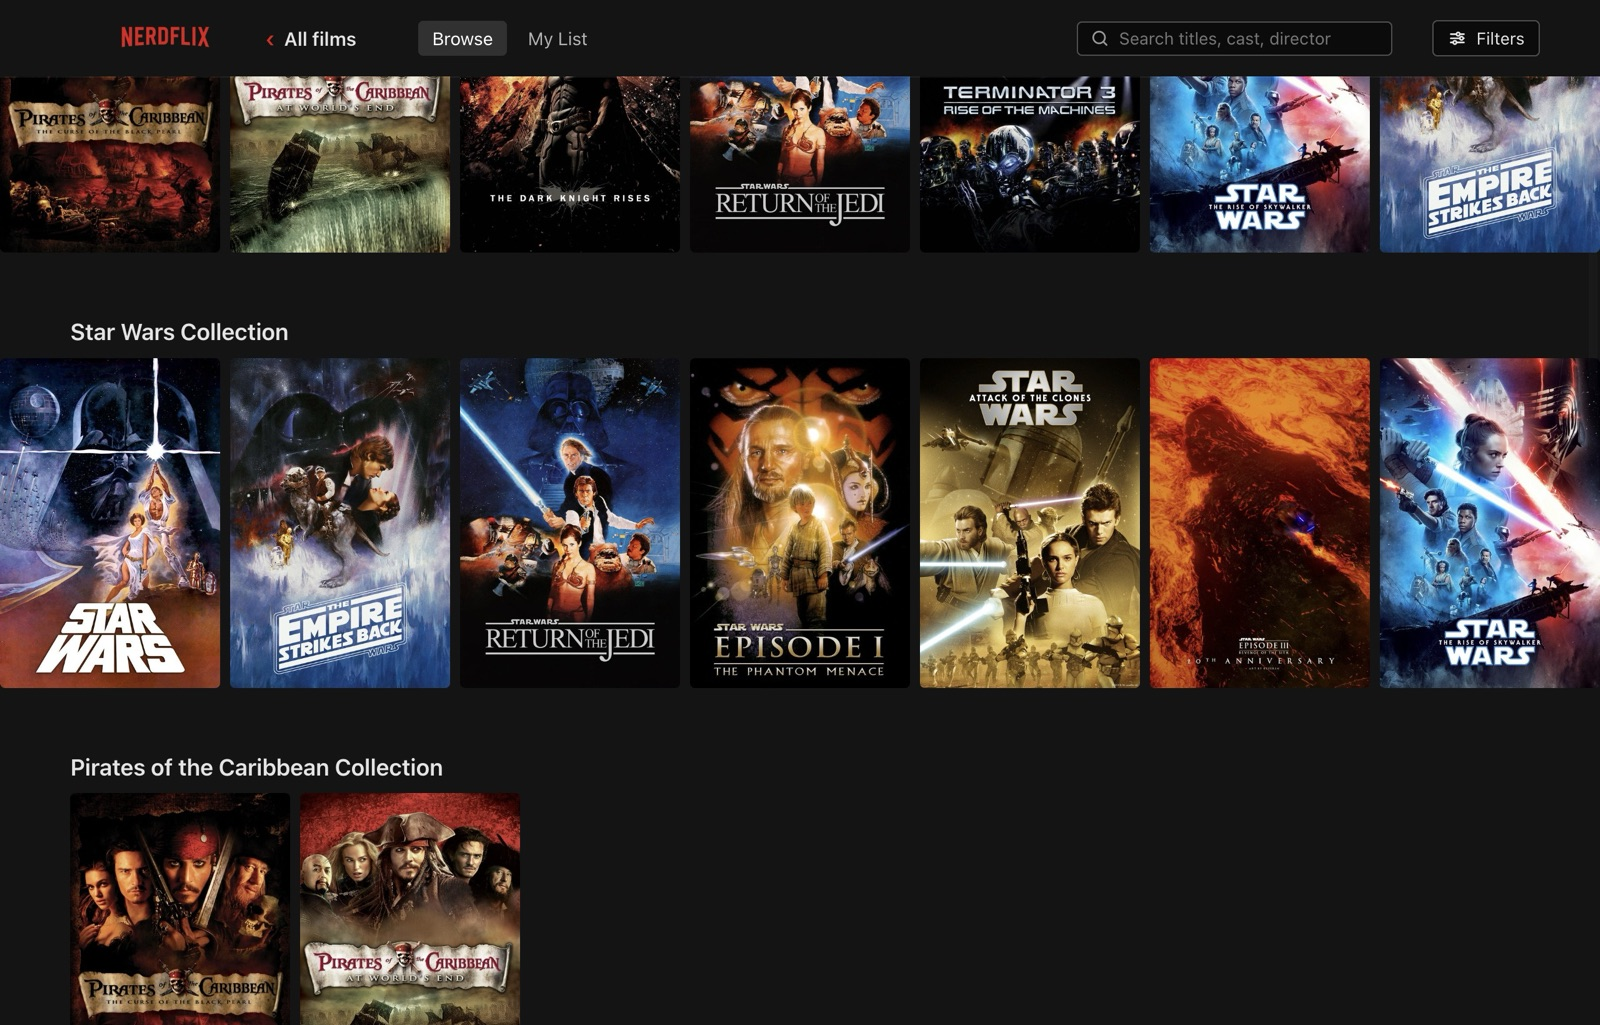
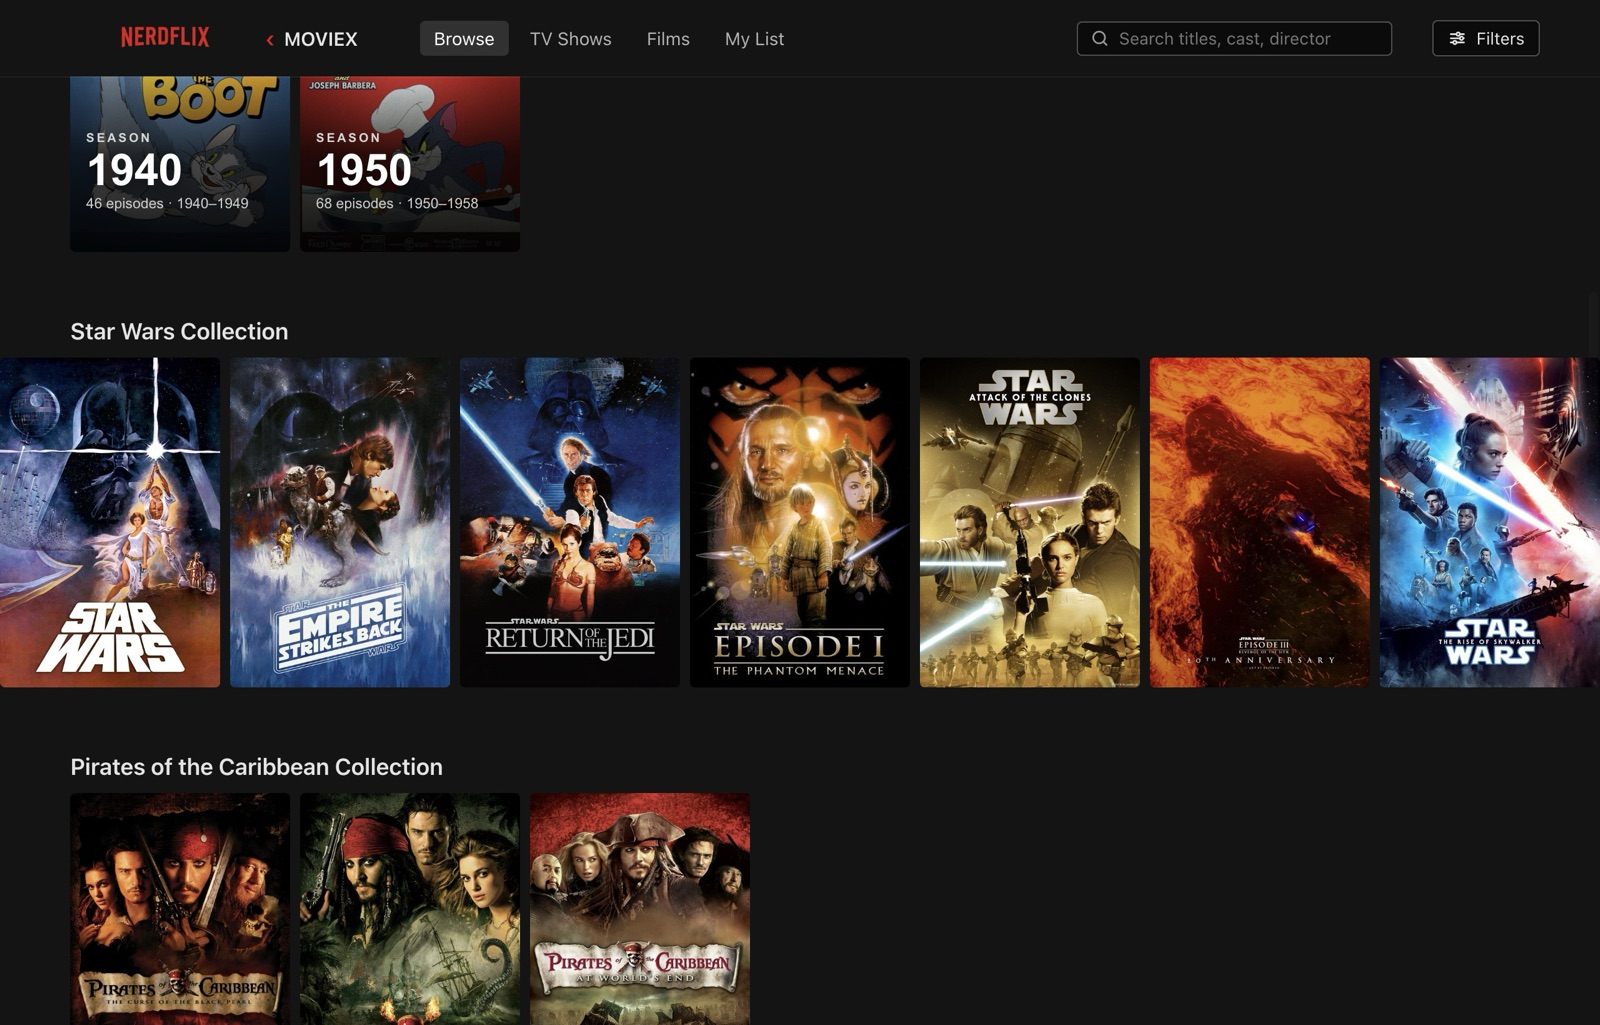
README: the gallery, recaptured from the real library, with TV
"What it looks like" was still the 1.0.0 gallery: nothing showed a season
shelf, the TV Shows tab or Recently Added in two. All thirteen screenshots are
recaptured in one run from the real library, and the gallery is a tour in five
parts — Browse, TV (new in 1.0.1), the detail view, finding things, your
drives — with image and text alternating sides.

New shots: Recently Added Movies and TV Shows (13), the Tom and Jerry season
shelf (11), a show's detail view (12); the episode list (10) now comes from the
real library rather than a test one.

The capture script learned the new rows: it found rows by the old titles
("Recently Added", "TV Shows") and would have failed on this build. It now
scrolls a tile into view before pointing at it — with Continue Watching first,
Recently Added sits below the fold — crops the season shelf to its cards, and
only ever shrinks a capture, never enlarges one.

diff --git a/README.md b/README.md
@@ -44,13 +44,13 @@ re-encoded, and nothing is ever written to your drives.**
   season's poster, episode count and how far through it you are. Click a season and
   the detail view opens on it.
 - **Keeps films and shows apart** where it matters: Recently Added Movies and Recently
-  Added TV Shows are separate rows, with TV Shows and Films tabs besides.
+  Added TV Shows are separate rows, with TV Shows and Films tabs alongside Browse.
 - **Sorts and filters** by title, year, runtime, file size, genre, resolution, HDR,
   unwatched and availability.
 - **Searches** across title, year, genre, director, creator and cast.
 - **Picks the audio and subtitle track before the film starts**, with commentaries
   labelled, so a disc with four audio mixes and forty-seven subtitle tracks opens on the
-  one you wanted. The choice is remembered per film.
+  one you wanted. The choice is remembered per film or show.
 - **Plays through mpv or IINA** with HDR passthrough, hardware decode and quality that
   adapts to your machine in both directions — then reports what actually happened rather
   than what was requested.
@@ -59,17 +59,46 @@ re-encoded, and nothing is ever written to your drives.**
 
 ## What it looks like
 
+Every screenshot is captured by driving the real app over a real library — `pnpm
+screenshots` regenerates them, and refuses to write one unless the page is in the state
+it claims to show.
+
+### Browse
+
 |  |  |
 |---|---|
-| **The billboard plays.** Five seconds after the page settles, the hero's artwork gives way to the film's trailer — then hands over to the next film in *Recently Added* when it finishes, still → trailer → still → dissolve, rather than a cut. | ![Hero trailer](docs/screenshots/03-hero-trailer.jpg) |
-| **Franchises group themselves.** TMDB knows which films belong to a collection, so owning two or more of them makes a row — in release order, above the genre rows. No tagging, no folders, no network calls. | ![Collections](docs/screenshots/04-collections.jpg) |
-| **Hover to preview.** The trailer plays where the poster was, and *keeps playing* when the card expands — one player that moves, never reloads. | ![Hover preview](docs/screenshots/05-hover-preview.jpg) |
-| **Detail view.** Logo, resume progress, technical truth about the file: real resolution, real HDR format, real audio layout and bitrate — all read from the stream. | ![Detail](docs/screenshots/06-detail.jpg) |
-| **Sort and filter.** Facets come from your library, not a fixed list — a filter that cannot change the result is never offered, so nothing you press does nothing. | ![Filters](docs/screenshots/07-filters.jpg) |
-| **Results are a grid.** Searching, filtering or sorting collapses the shelves into one ordered set, because the size of the answer is the point. | ![Results grid](docs/screenshots/08-results-grid.jpg) |
-| **Choose the track before you start.** A remux carries the feature mix, commentaries and dozens of subtitle tracks. Pick them here rather than hunting through a player menu while the opening plays. | ![Track picker](docs/screenshots/09-track-picker.jpg) |
-| **TV, episode by episode.** Seasons, TMDB's episode names, stills and synopses, and a Play button that means *the next one* — resume where you stopped, or the episode after the one you finished. Each episode has its own resume point. | ![TV episodes](docs/screenshots/10-tv-episodes.jpg) |
-| **Your drives, as they are.** Per-drive cards plus a combined view whose counts are deduplicated — the same film on two drives is one film, not two. | ![Library picker](docs/screenshots/01-library-picker.jpg) |
+| **The billboard plays.** Five seconds after the page settles, the artwork gives way to the trailer — then hands over to the next thing you added: still → trailer → still → dissolve, never a cut. | ![The billboard playing a trailer](docs/screenshots/03-hero-trailer.jpg) |
+| ![A hover card playing the trailer](docs/screenshots/05-hover-preview.jpg) | **Hover to preview.** The trailer plays where the poster was, and *keeps playing* when the card expands into the detail view — one player that moves, never reloads. |
+| **Films and shows, kept apart.** *Recently Added Movies* and *Recently Added TV Shows* are separate rows — "what shall I watch tonight" and "which series did I add" are different questions. TV Shows and Films tabs sit beside Browse. | ![Recently Added Movies and Recently Added TV Shows](docs/screenshots/13-films-and-shows.jpg) |
+| ![A franchise row in release order](docs/screenshots/04-collections.jpg) | **Franchises group themselves.** Own two or more films of a collection and they get a row of their own, in release order, above the genres. No tagging, no folders, no network calls. |
+
+### TV — new in 1.0.1
+
+|  |  |
+|---|---|
+| **Every series gets a shelf.** A show with several seasons gets a row of its own: one card per season, wearing that season's poster, with its episodes, its years and how far through it you are. Click a season and the detail view opens on it. | ![Tom and Jerry, one card per season](docs/screenshots/11-season-shelf.jpg) |
+| ![A show's detail view](docs/screenshots/12-show-detail.jpg) | **Pick up where you left off.** A show's Play knows which episode is next — the one you stopped partway through, or the one after the last you finished. Who made it, what it holds, and the audio and subtitles it should start on. |
+| **Episode by episode.** TMDB's names, stills and synopses, with a resume point for every episode — click one and exactly that one plays. Even series TMDB only lists as individual films, like these 1940s Tom and Jerry shorts, are described one by one. | ![The episode list](docs/screenshots/10-tv-episodes.jpg) |
+
+### The detail view
+
+|  |  |
+|---|---|
+| ![A film's detail view](docs/screenshots/06-detail.jpg) | **The truth about the file.** The logo over the trailer, and what the file really is — resolution, HDR format, audio layout and the real bitrate, all read from the stream, never from the filename. |
+| **Choose the track before you start.** A remux carries the feature mix, commentaries and dozens of subtitle tracks. Pick them here — commentaries labelled as such — rather than hunting through a player menu while the opening plays. | ![The track picker with a commentary chosen](docs/screenshots/09-track-picker.jpg) |
+
+### Finding things
+
+|  |  |
+|---|---|
+| ![The sort and filter panel](docs/screenshots/07-filters.jpg) | **Sort and filter.** Facets come from your own library, not a fixed list — a filter that could not change the result is never offered, so nothing you press does nothing. |
+| **Results are a grid.** Searching, filtering or sorting collapses the shelves into one ordered set, because the size of the answer is the point. | ![A filtered result grid](docs/screenshots/08-results-grid.jpg) |
+
+### Your drives
+
+|  |  |
+|---|---|
+| ![The library picker](docs/screenshots/01-library-picker.jpg) | **Your drives, as they are.** A card per drive that says what it holds — films and shows counted separately — with Rescan beside it. Pair several and a combined card appears, counting a film held on two drives once. |
 
 ---
 
